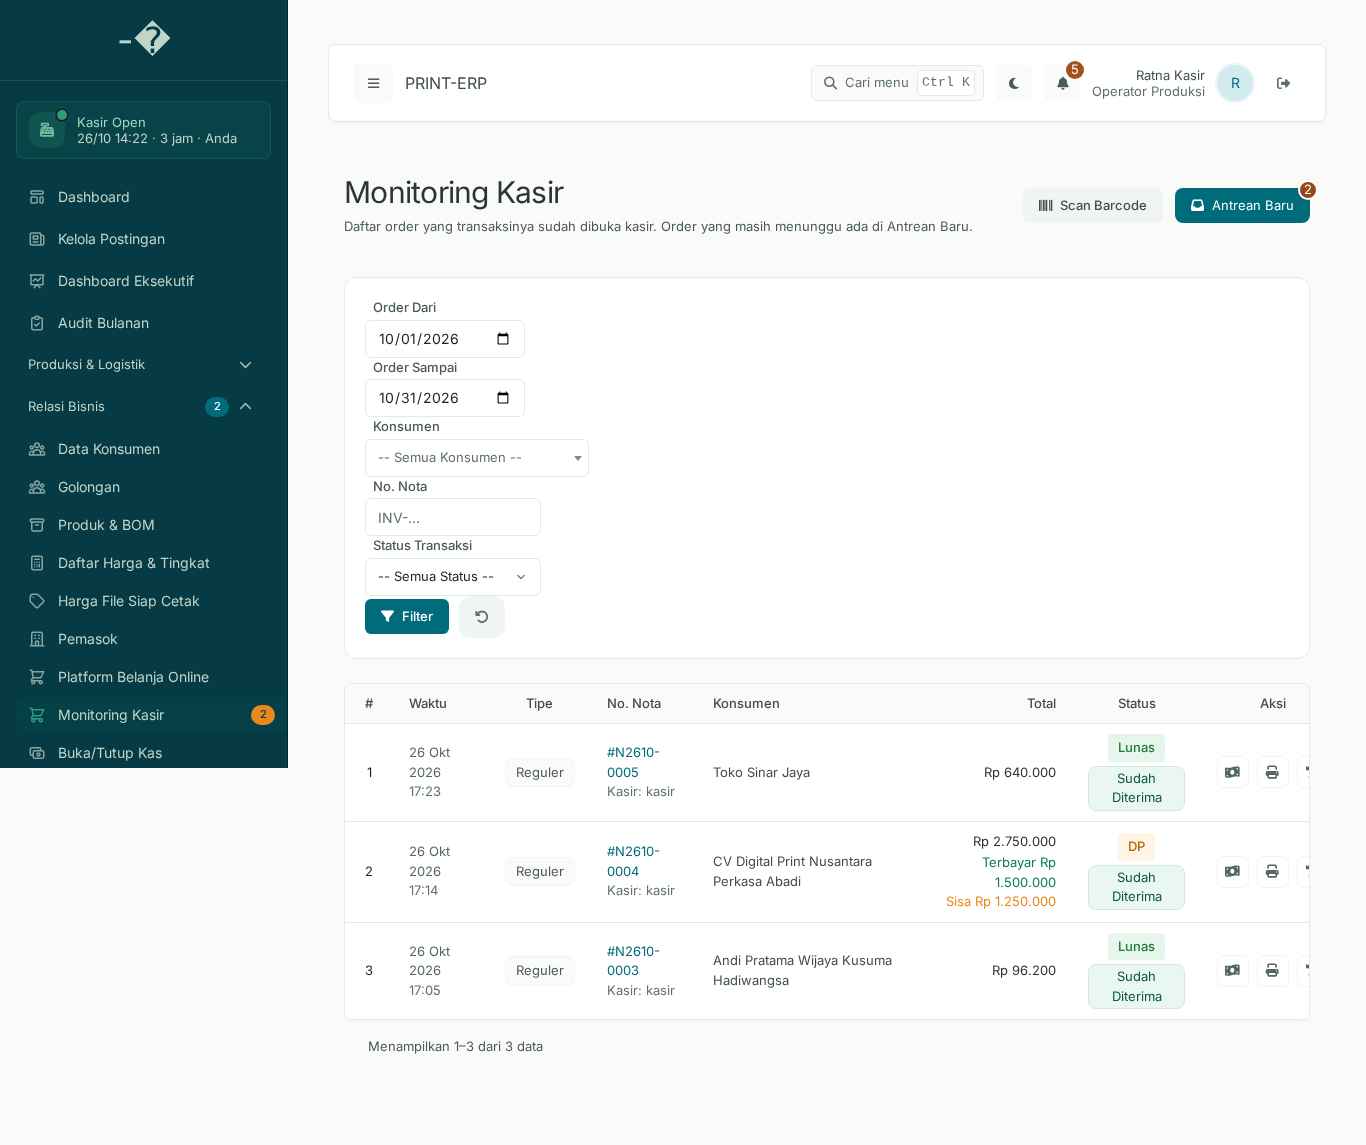
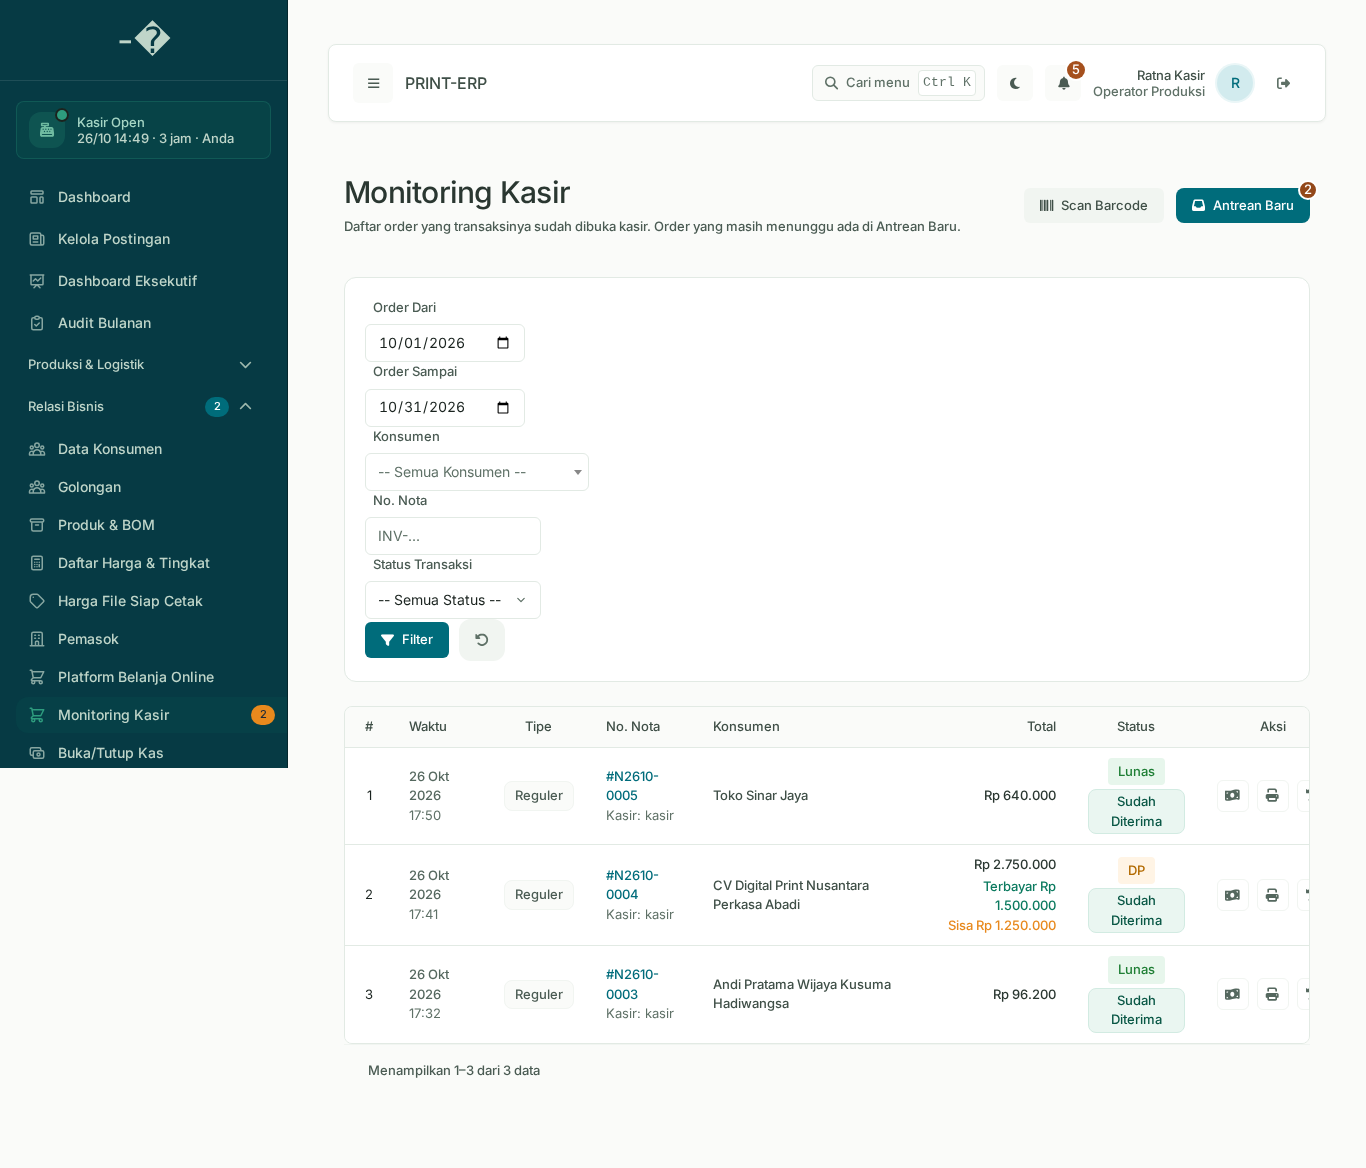
chore(typography): validate existing PR #22 fix in real browser
Adopt the form-typography.css already on the branch, remove a duplicate
trailing @import (invalid position), and add real Chromium evidence from an
isolated SQLite staging (login -> /kasir/monitoring). Verified computed styles:
input 16px mobile / 14px desktop, label 13px/500, weight 400, Inter family.

diff --git a/resources/css/app.css b/resources/css/app.css
@@ -1276,6 +1276,3 @@ html.dark .hero-postingan { box-shadow: none; }
 
     .cetak-kaki { display: flex !important; justify-content: space-between; margin-top: 8mm; padding-top: 3pt; border-top: .6pt solid #1A231F; font-family: 'Lora', Georgia, serif; font-size: 8pt; letter-spacing: .06em; color: #3F4F47; }
 }
-
-
-@import "./form-typography.css"; /* Form/filter/date/month typography across ERP */

diff --git a/docs/reviews/PWA_MOBILE_TYPOGRAPHY_GALLERY.md b/docs/reviews/PWA_MOBILE_TYPOGRAPHY_GALLERY.md
@@ -10,6 +10,7 @@ yang tersimpan di `docs/reviews/assets/pwa-mobile-typography/`.
 |---|---|
 | Branch | `fix/form-filter-month-typography` |
 | Base commit (main, sebelum PR) | `b9aaec5` |
+| Implementasi tipografi | Kode existing PR #22 (`02ed233`, `0f9a52f`) — dipakai ulang, bukan dibuat ulang |
 | Route | `GET /kasir/monitoring` → `kasir.index` |
 | Halaman | Monitoring Kasir (filter disubmit: `tgl_mulai=2026-10-01&tgl_selesai=2026-10-31&status_filtered=1`) |
 | Role uji (sintetis) | `kasir` (Operator Produksi) |
@@ -66,23 +67,21 @@ Sumber: `computed-before.json`, `computed-after.json`, `computed-styles.json`.
 | Input font-family | Font Theme Manager | Inter | Inter | Inter | Inter | PASS |
 | Label font-size | 13px | 13px | 13px | 13px | 13px | PASS |
 | Label font-weight | 500 | 500 | 500 | 500 | 500 | PASS |
-| Select font-size | (dropdown) 13px | 13px | 13px | 13px | 13px | PASS |
+| Select font-size | 16 mobile / 14 desktop | 13px (base) | 16px | 13px (base) | 14px | PASS |
 | Table header | 13px / 500 | 13/500 | 13/500 | 13/500 | 13/500 | PASS |
 
 ## Root cause & perbaikan
 
-1. Sebelumnya tidak ada lapisan tipografi form terpusat; ukuran input mengikuti
-   token `.text-sm` Theme Manager (13px) sehingga input desktop menyimpang dari
-   standar 14px.
-2. `form-typography.css` baru menormalkan: input 14px desktop / 16px mobile,
-   label 13px/500, bobot input 400, line-height konsisten, touch target 44px,
-   Select2/modal/chip seragam. Semua override mobile di dalam
-   `@media screen and (max-width: 767.98px)`.
-3. Input filter memakai selector ber-spesifisitas cukup (`.pwa-ops-page
-   .pwa-ops-filter-form input…`) agar menang atas pemetaan `.text-sm` tanpa
-   `!important` masal.
-4. Field nominal pembayaran sengaja lebih besar (16px desktop / 18px mobile).
-5. Native date/month picker tetap mekanisme browser (tidak diganti).
+1. Sebelumnya ukuran kontrol mengikuti token `.text-sm` Theme Manager (13px)
+   sehingga input/select desktop menyimpang dari standar 14px.
+2. `resources/css/form-typography.css` (implementasi existing PR #22) menormalkan
+   seluruh `input/select/textarea` menjadi 14px desktop / 16px mobile lewat
+   variabel `--erp-form-control-size`, label 13px/500, bobot 400, line-height
+   1.45, serta mengatur Select2 dan `::-webkit-datetime-edit`. Field yang
+   sengaja besar dikecualikan (`:not(.text-lg)` / `data-typography-preserve`).
+3. Import dipastikan berada di posisi valid (setelah `mobile-ui.css`), bukan di
+   akhir file, dan `mobile-ui.css` tetap terimpor sehingga CSS mobile PWA utuh.
+4. Native date/month picker tetap mekanisme browser (tidak diganti).
 
 ## Catatan / residual
 
